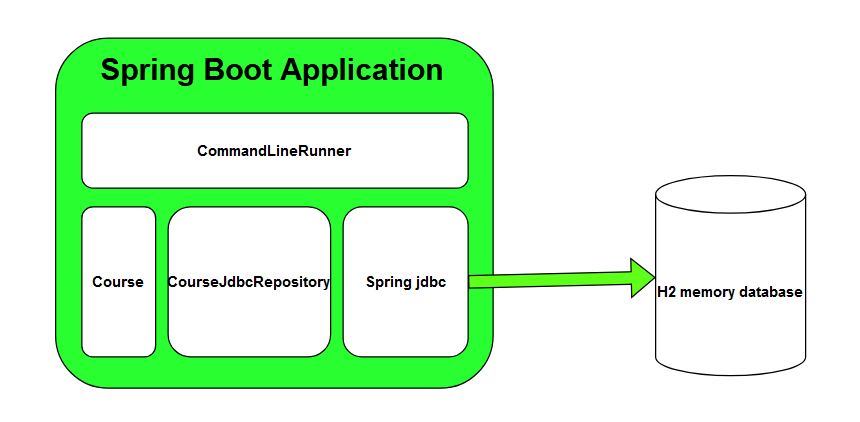
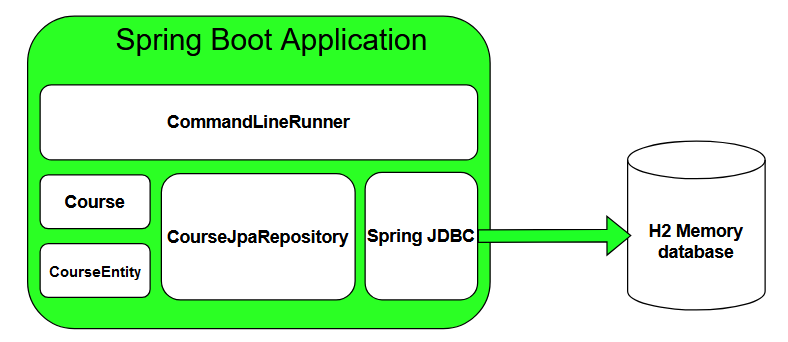
update

Changed region(s): [[0.0305, 0.0292, 0.9746, 0.9649], [0.2132, 0.3216, 0.4569, 0.3801]]

diff --git a/src/main/java/com/jdbcjpa/springboot/repository/jdbc/CourseJdbcRepository.java b/src/main/java/com/jdbcjpa/springboot/repository/jdbc/CourseJdbcRepository.java
@@ -3,11 +3,12 @@ package com.jdbcjpa.springboot.repository.jdbc;
 import java.util.List;
 
 import org.springframework.beans.factory.annotation.Autowired;
-import org.springframework.jdbc.core.DataClassRowMapper;
+import org.springframework.jdbc.core.BeanPropertyRowMapper;
 import org.springframework.jdbc.core.JdbcTemplate;
 import org.springframework.stereotype.Repository;
 
-import com.jdbcjpa.springboot.model.jdbc.Course;
+import com.jdbcjpa.springboot.entity.CourseEntity;
+import com.jdbcjpa.springboot.model.Course;
 
 @Repository
 public class CourseJdbcRepository {
@@ -18,13 +19,16 @@ public class CourseJdbcRepository {
 	final static String FIND_BY_ID = "SELECT * FROM course WHERE id = ?";
 	final static String INSERT = "INSERT INTO course(id, name, author) VALUES(?, ?, ?)";
 	final static String DELETE = "DELETE FROM course WHERE id = ?";
+	final static String UPDATE = "UPDATE Course SET name = ?, author = ? WHERE id = ?";
 			
 	public List<Course> findAll(){
-		return jdbcTemplate.queryForStream(FIND_ALL_COURSES, new DataClassRowMapper<>(Course.class)).toList();
+		return jdbcTemplate.queryForStream(FIND_ALL_COURSES, new BeanPropertyRowMapper<>(CourseEntity.class))
+				.map(e -> new Course(e.getId(), e.getName(), e.getAuthor())).toList();
 	}
 	
 	public Course findById(long id) {
-		return jdbcTemplate.queryForObject(FIND_BY_ID, new DataClassRowMapper<>(Course.class), id);
+		var entity = jdbcTemplate.queryForObject(FIND_BY_ID, new BeanPropertyRowMapper<>(CourseEntity.class), id);
+		return new Course(entity.getId(), entity.getName(), entity.getAuthor());
 	}
 	
 	public void insert(final Course course) {
@@ -33,5 +37,13 @@ public class CourseJdbcRepository {
 	
 	public void delete(long id) {
 		jdbcTemplate.update(DELETE, id);
+	}
+	
+	public void update(final Course course) {
+		var entity = findById(course.id());
+		if (entity == null) {
+	        throw new IllegalArgumentException("Course not found: " + course.id());
+	    }
+		jdbcTemplate.update(UPDATE, course.name(), course.author(), course.id());
 	}
 }

diff --git a/src/main/java/com/jdbcjpa/springboot/JdbcJpaApplication.java b/src/main/java/com/jdbcjpa/springboot/JdbcJpaApplication.java
@@ -4,8 +4,9 @@ import org.springframework.beans.factory.annotation.Autowired;
 import org.springframework.boot.CommandLineRunner;
 import org.springframework.boot.SpringApplication;
 import org.springframework.boot.autoconfigure.SpringBootApplication;
+import org.springframework.dao.EmptyResultDataAccessException;
 
-import com.jdbcjpa.springboot.model.jdbc.Course;
+import com.jdbcjpa.springboot.model.Course;
 import com.jdbcjpa.springboot.repository.jdbc.CourseJdbcRepository;
 
 @SpringBootApplication
@@ -24,18 +25,30 @@ public class JdbcJpaApplication implements CommandLineRunner{
 		repository.insert(new Course(2, "Learn Spring JPA", "Spring Source"));
 		repository.insert(new Course(3, "Learn Spring Data", "Spring Source"));
 		
+		System.out.println("Find Course with id = 2:");
 		System.out.println(repository.findById(2l));
+		
+		System.out.println("Find Course with id = 3:");
 		System.out.println(repository.findById(3l));
 		
+		System.out.println("Find all Courses:");
 		System.out.println(repository.findAll());
-		//System.out.println(repository.count());
 		
-		//System.out.println(repository.findByAuthor("Spring Source"));
-		//System.out.println(repository.findByAuthor(""));
-
-		//System.out.println(repository.findByName("Learn Spring JPA"));
-		//System.out.println(repository.findByName("Learn Spring Data!"));
-
+		var course = repository.findById(3l);
+		var updateCourse = new Course(course.id(), course.name(), "Learning Spring Data Updated");
+		repository.update(updateCourse);
+		
+		System.out.println("Update Course with id = 3:");
+		System.out.println(repository.findById(3l));
+		
+		System.out.println("Delete Course with id = 3:");
+		repository.delete(3l);
+		try {
+			System.out.println("Find Course with id = 3 after deleting it:");
+			System.out.println(repository.findById(3l));		
+		} catch(EmptyResultDataAccessException e) {
+			System.out.println(e.getMessage());
+		}
 	}
 
 	

diff --git a/src/main/java/com/jdbcjpa/springboot/repository/jpa/CourseJpaRepository.java b/src/main/java/com/jdbcjpa/springboot/repository/jpa/CourseJpaRepository.java
@@ -1,0 +1,54 @@
+package com.jdbcjpa.springboot.repository.jpa;
+
+import java.util.List;
+
+import org.springframework.stereotype.Repository;
+
+import com.jdbcjpa.springboot.entity.CourseEntity;
+import com.jdbcjpa.springboot.model.Course;
+
+import jakarta.persistence.EntityManager;
+import jakarta.persistence.PersistenceContext;
+import jakarta.transaction.Transactional;
+
+@Repository
+@Transactional
+public class CourseJpaRepository {
+	@PersistenceContext
+	private EntityManager entityManager;
+	
+	public List<Course> findAll(){
+		return entityManager.createQuery("SELECT c FROM Course c", CourseEntity.class)
+				.getResultStream().map(e -> new Course(e.getId(), e.getName(), e.getAuthor()))
+				.toList();
+	}
+	
+	public Course findById(long id) {
+		var entity = _findById(id);
+		return new Course(entity.getId(), entity.getName(), entity.getAuthor());
+	}
+	
+	public void insert(final Course course) {
+		entityManager.merge(new CourseEntity(course.id(), course.name(), course.author()));
+	}
+	
+	public void delete(long id) {
+		var entity = _findById(id);
+		entityManager.remove(entity);
+	}
+	
+	public void update(final Course course) {
+		var entity = _findById(course.id());
+		entity.setName(course.name());
+		entity.setAuthor(course.author());
+		entityManager.merge(entity);
+	}
+	
+	private CourseEntity _findById(long id) {
+		var entity = entityManager.find(CourseEntity.class, id);
+		if(entity == null) {
+			throw new IllegalArgumentException("Course not found: " + id);
+		}
+		return entity;
+	}
+}

diff --git a/src/main/java/com/jdbcjpa/springboot/entity/CourseEntity.java b/src/main/java/com/jdbcjpa/springboot/entity/CourseEntity.java
@@ -1,0 +1,53 @@
+package com.jdbcjpa.springboot.entity;
+
+import jakarta.persistence.Entity;
+import jakarta.persistence.Id;
+
+@Entity
+public class CourseEntity {
+
+	@Id
+	private long id;
+
+	private String name;
+
+	private String author;
+
+	public CourseEntity() {}
+
+	public CourseEntity(long id, String name, String author) {
+		super();
+		this.id = id;
+		this.name = name;
+		this.author = author;
+	}
+
+	public long getId() {
+		return id;
+	}
+
+	public String getName() {
+		return name;
+	}
+
+	public String getAuthor() {
+		return author;
+	}
+
+	public void setId(long id) {
+		this.id = id;
+	}
+
+	public void setName(String name) {
+		this.name = name;
+	}
+
+	public void setAuthor(String author) {
+		this.author = author;
+	}
+
+	@Override
+	public String toString() {
+		return "Course [id=" + id + ", name=" + name + ", author=" + author + "]";
+	}
+}

diff --git a/src/main/java/com/jdbcjpa/springboot/repository/springdata/CourseSpringDataRepository.java b/src/main/java/com/jdbcjpa/springboot/repository/springdata/CourseSpringDataRepository.java
@@ -1,0 +1,8 @@
+package com.jdbcjpa.springboot.repository.springdata;
+
+import org.springframework.data.repository.ListCrudRepository;
+import com.jdbcjpa.springboot.entity.*;
+
+interface CourseSpringDataRepository extends ListCrudRepository<CourseEntity, Long>{
+
+}

diff --git a/src/main/java/com/jdbcjpa/springboot/model/Course.java b/src/main/java/com/jdbcjpa/springboot/model/Course.java
@@ -1,0 +1,4 @@
+package com.jdbcjpa.springboot.model;
+
+public record Course(long id, String name, String author) {
+}

diff --git a/README.md b/README.md
@@ -10,11 +10,12 @@ Maven: For project build and dependency management.
 IDE: An Integrated Development Environment eclipse.
 
 ## Spring JDBC
-The following diagram illustrates the Spring JDBC architecture implemented in this project
+#### The following diagram illustrates the Spring JDBC architecture implemented in this project
 ![Spring jdbc](/assets/images/jdbc.png)
 
 - JdbcJdbcApplication.java: The main application implements CommandLineRunner to execute Spring JDBC.
 - Course.java: Represents the model.
+- CourseEntity.java: Represents the database entity object.
 - CourseJdbcRepository.java: Interacts with the H2 database using Spring JDBC template.
 
 ## Spring JPA
@@ -23,6 +24,7 @@ The following diagram illustrates the Spring JDBC architecture implemented in th
 
 - JdbcJpaApplication.java: The main application implements CommandLineRunner to execute Spring JPA.
 - Course.java: Represents the model.
+- CourseEntity.java: Represents the database entity object.
 - CourseJpaRepository.java: Interacts with the H2 database using Spring JPA template.
 
 ## Spring Data
@@ -31,4 +33,5 @@ The following diagram illustrates the Spring JDBC architecture implemented in th
 
 - JdbcJpaApplication.java: The main application implements CommandLineRunner to execute Spring Data.
 - Course.java: Represents the model.
+- CourseEntity.java: Represents the database entity object.
 - CourseSpringDataRepository.java: Interacts with the H2 database using Spring Data template.
